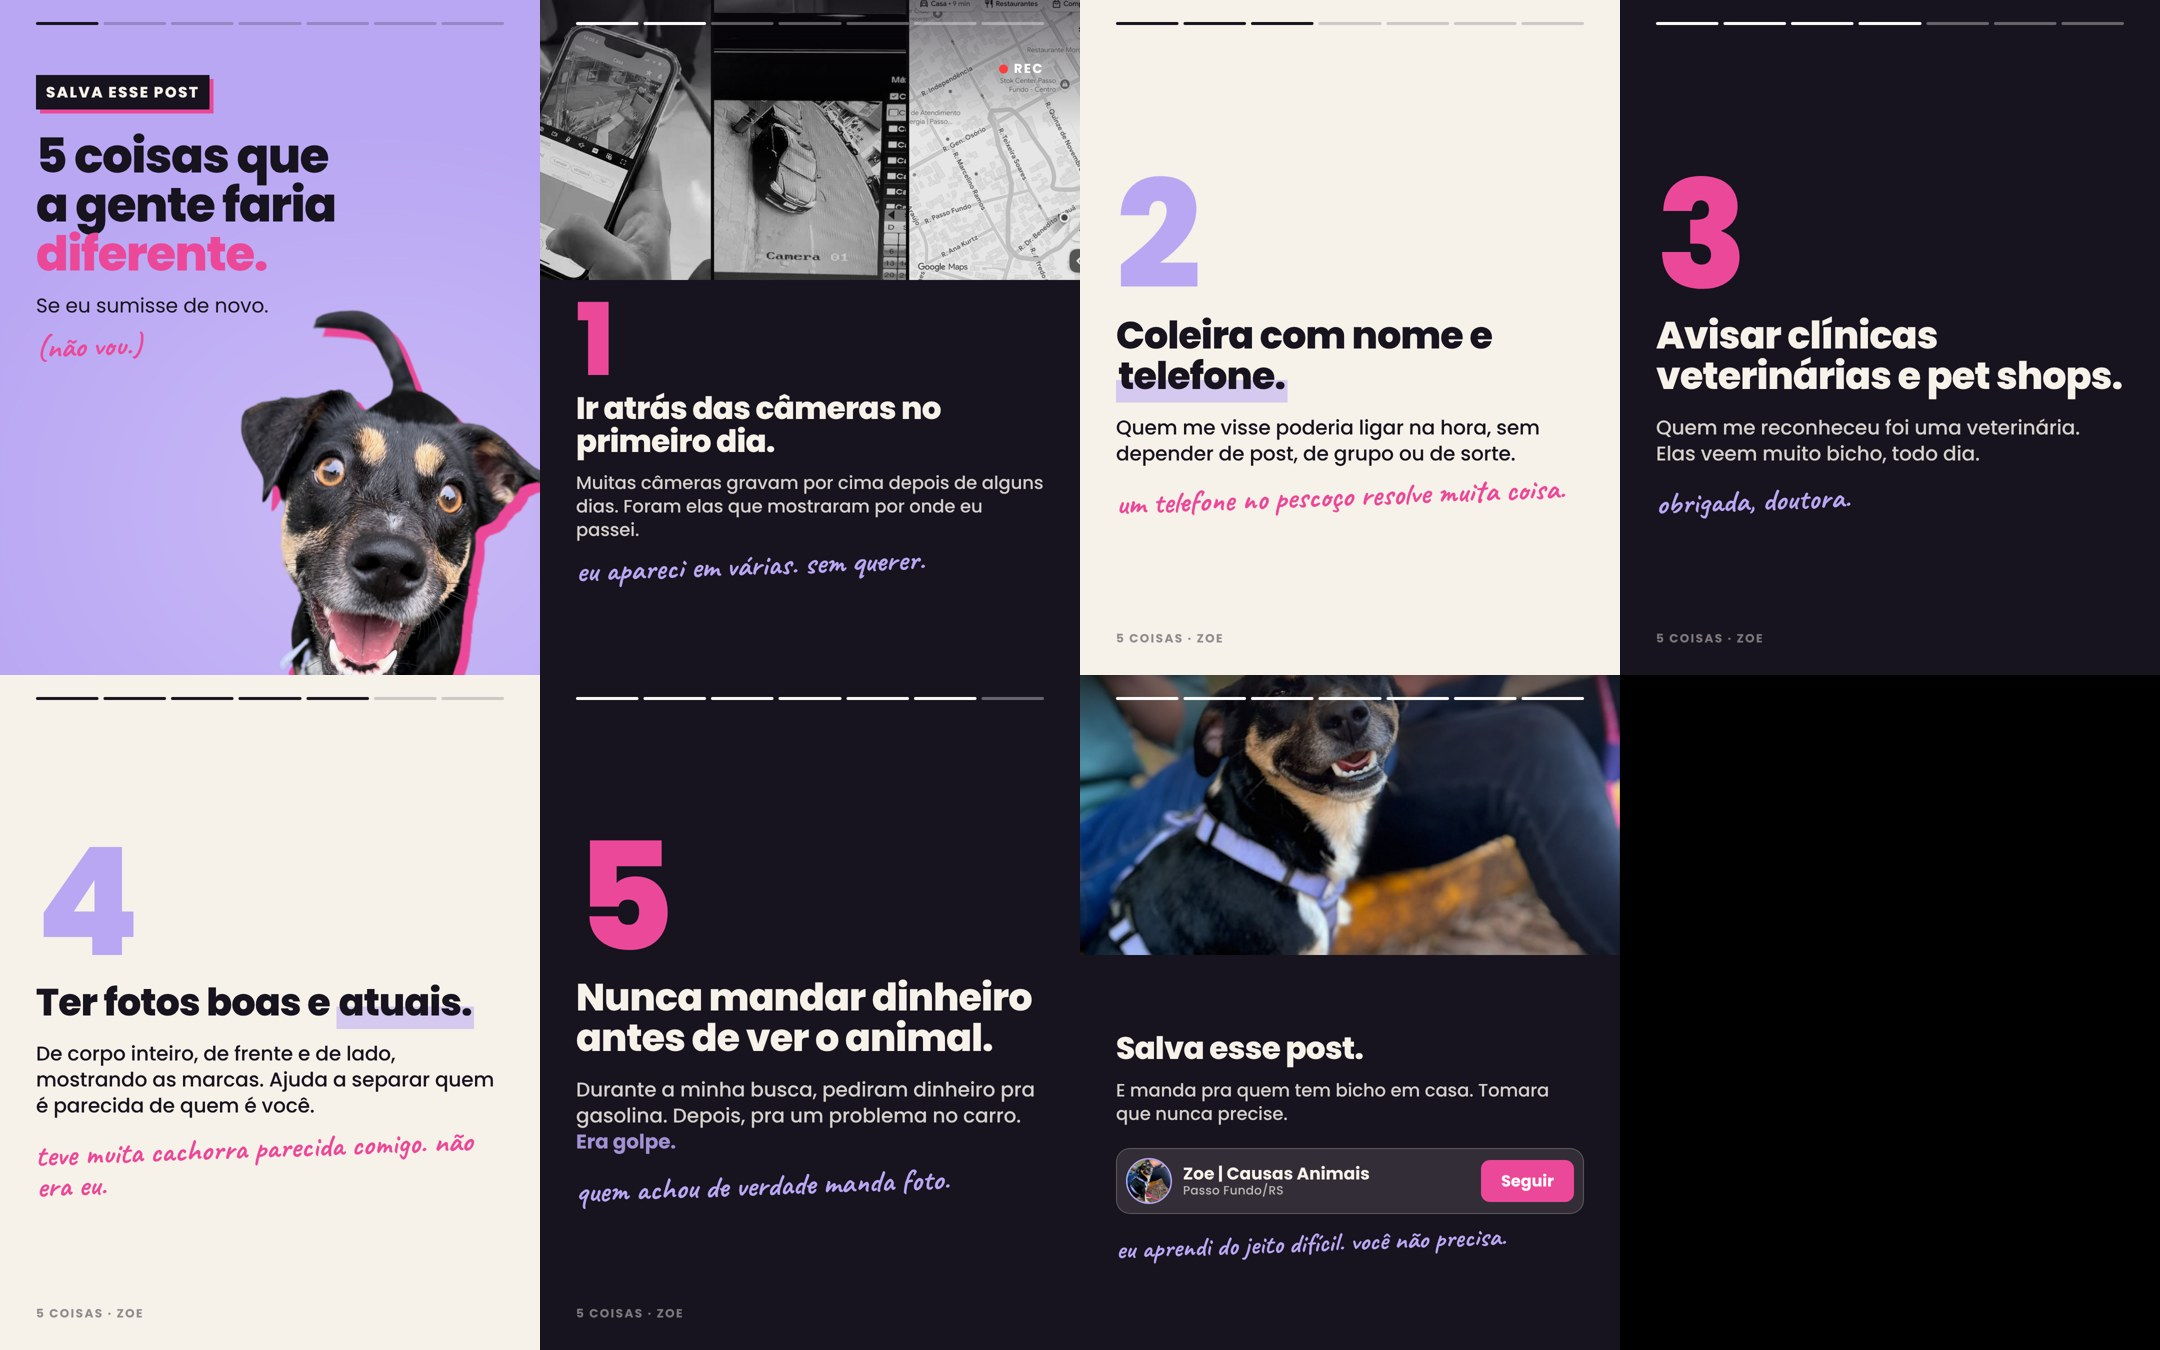
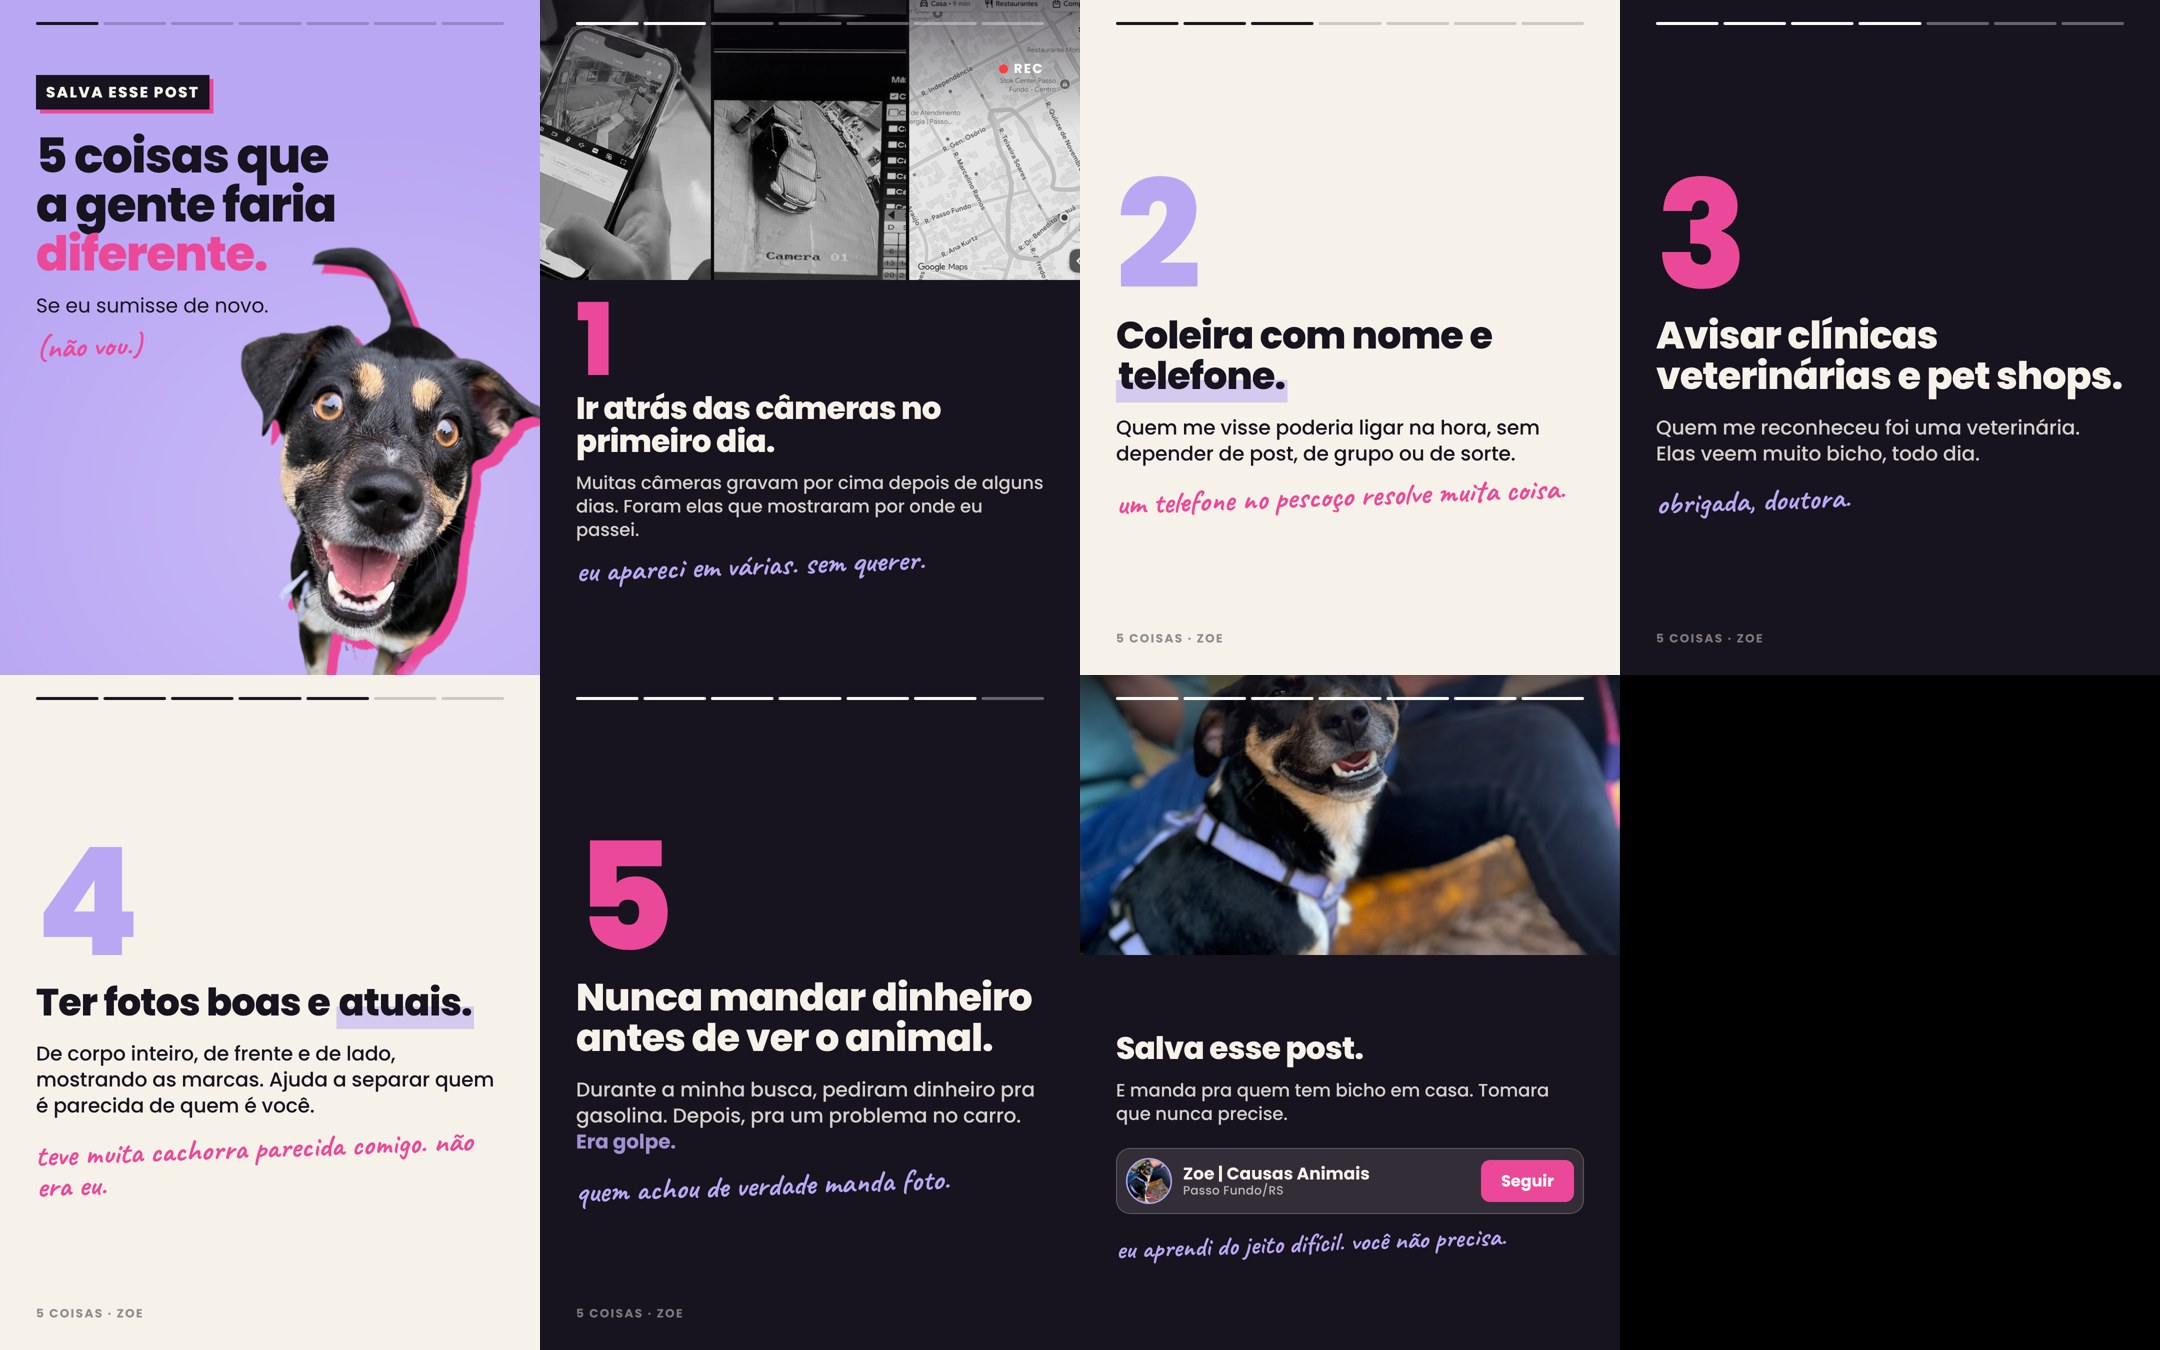
Carrossel 3: Zoe recortada mais alta na capa
Claude-Session: https://claude.ai/code/session_01E463xHzMa5F2TJ5U3fhtJq

Changed region(s): [[0.0931, 0.1867, 0.2481, 0.4978]]

diff --git a/carrossel/carrossel3.html b/carrossel/carrossel3.html
@@ -80,7 +80,7 @@ body{background:#000;font-family:P,sans-serif;-webkit-font-smoothing:antialiased
 /* carrossel 3: utilidade, cards tipográficos numerados */
 .cover{background:radial-gradient(ellipse 80% 55% at 70% 75%,#C9BAF6 0%,var(--lilac) 100%)}
 .cover .bar i{background:rgba(23,19,31,.22)} .cover .bar i.on{background:var(--ink)}
-.cover .recorte{position:absolute;right:-40px;bottom:-170px;width:640px;filter:drop-shadow(18px 18px 0 var(--pink))}
+.cover .recorte{position:absolute;right:-30px;bottom:-30px;width:630px;filter:drop-shadow(18px 18px 0 var(--pink))}
 .cover .txt{position:absolute;left:72px;right:72px;top:150px}
 .selo{display:inline-block;background:var(--ink);color:var(--cream);font-weight:800;font-size:30px;letter-spacing:.1em;text-transform:uppercase;padding:12px 20px 11px;box-shadow:8px 8px 0 var(--pink)}
 .item .txt{position:absolute;left:72px;right:72px;top:150px;bottom:110px;display:flex;flex-direction:column;justify-content:center}
